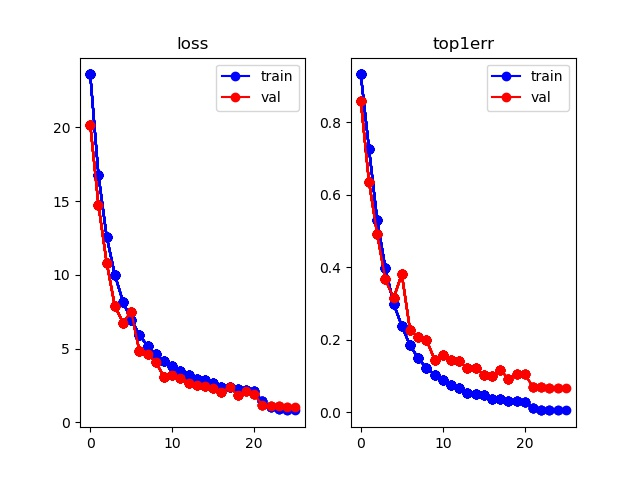
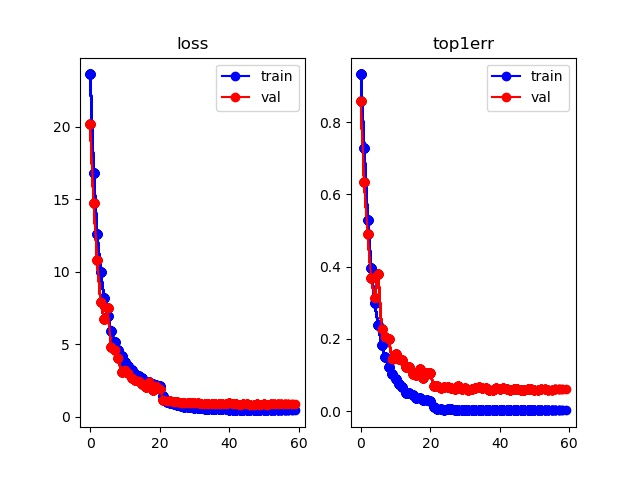
train lstm

diff --git a/logs/PCB-LSTM/lstm_model.py b/logs/PCB-LSTM/lstm_model.py
@@ -19,9 +19,6 @@ class PCB_Effi_LSTM(nn.Module):
         self.dropout = nn.Dropout(p=0.5)
         self.feature_dim = model.feature_dim
 
-        self.glob_avgpool = nn.AdaptiveAvgPool2d((1, 1))
-        self.glob_dropout = nn.Dropout(p=0.5)
-
         self.hiddenDim = self.feature_dim // 2
 
         self.lstm = nn.LSTM(self.feature_dim, self.hiddenDim, bidirectional=True)
@@ -63,27 +60,20 @@ class PCB_Effi_LSTM(nn.Module):
     def forward(self, x):
         with torch.no_grad():
             x = self.model.extract_features(x)
-
-            gx = self.glob_avgpool(x)
-            gx = self.glob_dropout(gx)
-            gx = gx.squeeze()
-
             x = self.avgpool(x)
             x = self.dropout(x)
             x = x.squeeze()
 
         batchSize, seq_len = x.size(0), x.size(2)
 
-        h0 = Variable(torch.zeros(2, x.size(0), self.hiddenDim)).cuda()
-        # h0 = gx.view(2, gx.size(0), gx.size(1) // 2)
+        # h0 = Variable(torch.zeros(2, x.size(0), self.hiddenDim)).cuda()
         # c0 = Variable(torch.zeros(2, x.size(0), self.hiddenDim)).cuda()
-        c0 = gx.view(2, gx.size(0), gx.size(1) // 2)
 
         x = x.transpose(2, 1)  # bxpx1280
         x = x.transpose(1, 0)  # pxbx1280
 
-        output, hn = self.lstm(x, (h0, c0))
-        # output, hn = self.lstm(x)
+        # output, hn = self.lstm(x, (h0, c0))
+        output, hn = self.lstm(x)
 
         # x = output.reshape((output.size(0) * output.size(1), self.hiddenDim))
         # x = self.lstm_linear(x)
@@ -156,8 +146,6 @@ class PCB_Effi_LSTM_test(nn.Module):
         self.part = model.part
         self.model = model.model
         self.avgpool = nn.AdaptiveAvgPool2d((self.part, 1))
-        
-        self.glob_avgpool = model.glob_avgpool
 
         self.hiddenDim = model.hiddenDim
         self.lstm = model.lstm
@@ -165,25 +153,19 @@ class PCB_Effi_LSTM_test(nn.Module):
 
     def forward(self, x):
         x = self.model.extract_features(x)
-
-        gx = self.glob_avgpool(x)
-        gx = gx.squeeze()
-
         x = self.avgpool(x)
         x = x.squeeze()
 
         batchSize, seq_len = x.size(0), x.size(2)
 
-        h0 = Variable(torch.zeros(2, x.size(0), self.hiddenDim)).cuda()
-        # h0 = gx.view(2, gx.size(0), gx.size(1) // 2)
+        # h0 = Variable(torch.zeros(2, x.size(0), self.hiddenDim)).cuda()
         # c0 = Variable(torch.zeros(2, x.size(0), self.hiddenDim)).cuda()
-        c0 = gx.view(2, gx.size(0), gx.size(1) // 2)
 
         x = x.transpose(2, 1)  # bxpx1280
         x = x.transpose(1, 0)  # pxbx1280
 
-        output, hn = self.lstm(x, (h0, c0))
-        # output, hn = self.lstm(x)
+        # output, hn = self.lstm(x, (h0, c0))
+        output, hn = self.lstm(x)
 
         # x = output.reshape((output.size(0) * output.size(1), self.hiddenDim))
         # x = self.lstm_linear(x)

diff --git a/logs/PCB-LSTM-0state/lstm_model.py b/logs/PCB-LSTM-0state/lstm_model.py
@@ -19,9 +19,6 @@ class PCB_Effi_LSTM(nn.Module):
         self.dropout = nn.Dropout(p=0.5)
         self.feature_dim = model.feature_dim
 
-        self.glob_avgpool = nn.AdaptiveAvgPool2d((1, 1))
-        self.glob_dropout = nn.Dropout(p=0.5)
-
         self.hiddenDim = self.feature_dim // 2
 
         self.lstm = nn.LSTM(self.feature_dim, self.hiddenDim, bidirectional=True)
@@ -63,11 +60,6 @@ class PCB_Effi_LSTM(nn.Module):
     def forward(self, x):
         with torch.no_grad():
             x = self.model.extract_features(x)
-
-            gx = self.glob_avgpool(x)
-            gx = self.glob_dropout(gx)
-            gx = gx.squeeze()
-
             x = self.avgpool(x)
             x = self.dropout(x)
             x = x.squeeze()
@@ -75,9 +67,7 @@ class PCB_Effi_LSTM(nn.Module):
         batchSize, seq_len = x.size(0), x.size(2)
 
         h0 = Variable(torch.zeros(2, x.size(0), self.hiddenDim)).cuda()
-        # h0 = gx.view(2, gx.size(0), gx.size(1) // 2)
-        # c0 = Variable(torch.zeros(2, x.size(0), self.hiddenDim)).cuda()
-        c0 = gx.view(2, gx.size(0), gx.size(1) // 2)
+        c0 = Variable(torch.zeros(2, x.size(0), self.hiddenDim)).cuda()
 
         x = x.transpose(2, 1)  # bxpx1280
         x = x.transpose(1, 0)  # pxbx1280
@@ -156,8 +146,6 @@ class PCB_Effi_LSTM_test(nn.Module):
         self.part = model.part
         self.model = model.model
         self.avgpool = nn.AdaptiveAvgPool2d((self.part, 1))
-        
-        self.glob_avgpool = model.glob_avgpool
 
         self.hiddenDim = model.hiddenDim
         self.lstm = model.lstm
@@ -165,19 +153,13 @@ class PCB_Effi_LSTM_test(nn.Module):
 
     def forward(self, x):
         x = self.model.extract_features(x)
-
-        gx = self.glob_avgpool(x)
-        gx = gx.squeeze()
-
         x = self.avgpool(x)
         x = x.squeeze()
 
         batchSize, seq_len = x.size(0), x.size(2)
 
         h0 = Variable(torch.zeros(2, x.size(0), self.hiddenDim)).cuda()
-        # h0 = gx.view(2, gx.size(0), gx.size(1) // 2)
-        # c0 = Variable(torch.zeros(2, x.size(0), self.hiddenDim)).cuda()
-        c0 = gx.view(2, gx.size(0), gx.size(1) // 2)
+        c0 = Variable(torch.zeros(2, x.size(0), self.hiddenDim)).cuda()
 
         x = x.transpose(2, 1)  # bxpx1280
         x = x.transpose(1, 0)  # pxbx1280

diff --git a/logs/PCB-LSTM-glob_h/lstm_model.py b/logs/PCB-LSTM-glob_h/lstm_model.py
@@ -74,10 +74,10 @@ class PCB_Effi_LSTM(nn.Module):
 
         batchSize, seq_len = x.size(0), x.size(2)
 
-        h0 = Variable(torch.zeros(2, x.size(0), self.hiddenDim)).cuda()
-        # h0 = gx.view(2, gx.size(0), gx.size(1) // 2)
-        # c0 = Variable(torch.zeros(2, x.size(0), self.hiddenDim)).cuda()
-        c0 = gx.view(2, gx.size(0), gx.size(1) // 2)
+        # h0 = Variable(torch.zeros(2, x.size(0), self.hiddenDim)).cuda()
+        h0 = gx.view(2, gx.size(0), gx.size(1) // 2)
+        c0 = Variable(torch.zeros(2, x.size(0), self.hiddenDim)).cuda()
+        # c0 = gx.view(2, gx.size(0), gx.size(1) // 2)
 
         x = x.transpose(2, 1)  # bxpx1280
         x = x.transpose(1, 0)  # pxbx1280
@@ -174,10 +174,10 @@ class PCB_Effi_LSTM_test(nn.Module):
 
         batchSize, seq_len = x.size(0), x.size(2)
 
-        h0 = Variable(torch.zeros(2, x.size(0), self.hiddenDim)).cuda()
-        # h0 = gx.view(2, gx.size(0), gx.size(1) // 2)
-        # c0 = Variable(torch.zeros(2, x.size(0), self.hiddenDim)).cuda()
-        c0 = gx.view(2, gx.size(0), gx.size(1) // 2)
+        # h0 = Variable(torch.zeros(2, x.size(0), self.hiddenDim)).cuda()
+        h0 = gx.view(2, gx.size(0), gx.size(1) // 2)
+        c0 = Variable(torch.zeros(2, x.size(0), self.hiddenDim)).cuda()
+        # c0 = gx.view(2, gx.size(0), gx.size(1) // 2)
 
         x = x.transpose(2, 1)  # bxpx1280
         x = x.transpose(1, 0)  # pxbx1280

diff --git a/logs/PCB-LSTM-glob_h_c/lstm_model.py b/logs/PCB-LSTM-glob_h_c/lstm_model.py
@@ -74,8 +74,8 @@ class PCB_Effi_LSTM(nn.Module):
 
         batchSize, seq_len = x.size(0), x.size(2)
 
-        h0 = Variable(torch.zeros(2, x.size(0), self.hiddenDim)).cuda()
-        # h0 = gx.view(2, gx.size(0), gx.size(1) // 2)
+        # h0 = Variable(torch.zeros(2, x.size(0), self.hiddenDim)).cuda()
+        h0 = gx.view(2, gx.size(0), gx.size(1) // 2)
         # c0 = Variable(torch.zeros(2, x.size(0), self.hiddenDim)).cuda()
         c0 = gx.view(2, gx.size(0), gx.size(1) // 2)
 
@@ -174,8 +174,8 @@ class PCB_Effi_LSTM_test(nn.Module):
 
         batchSize, seq_len = x.size(0), x.size(2)
 
-        h0 = Variable(torch.zeros(2, x.size(0), self.hiddenDim)).cuda()
-        # h0 = gx.view(2, gx.size(0), gx.size(1) // 2)
+        # h0 = Variable(torch.zeros(2, x.size(0), self.hiddenDim)).cuda()
+        h0 = gx.view(2, gx.size(0), gx.size(1) // 2)
         # c0 = Variable(torch.zeros(2, x.size(0), self.hiddenDim)).cuda()
         c0 = gx.view(2, gx.size(0), gx.size(1) // 2)
 

diff --git a/test.py b/test.py
@@ -162,7 +162,7 @@ def extract_feature(model,dataloaders):
         if opt.PCB and not opt.LSTM and not opt.GGNN:
             ff = torch.FloatTensor(n, 1280, 4).zero_().cuda() # we have six parts
         if opt.LSTM:
-            ff = torch.FloatTensor(n, 2560, 4).zero_().cuda()
+            ff = torch.FloatTensor(n, 1280, 4).zero_().cuda()
         if opt.GGNN:
             ff = torch.FloatTensor(n, 1280, 4).zero_().cuda()
 
